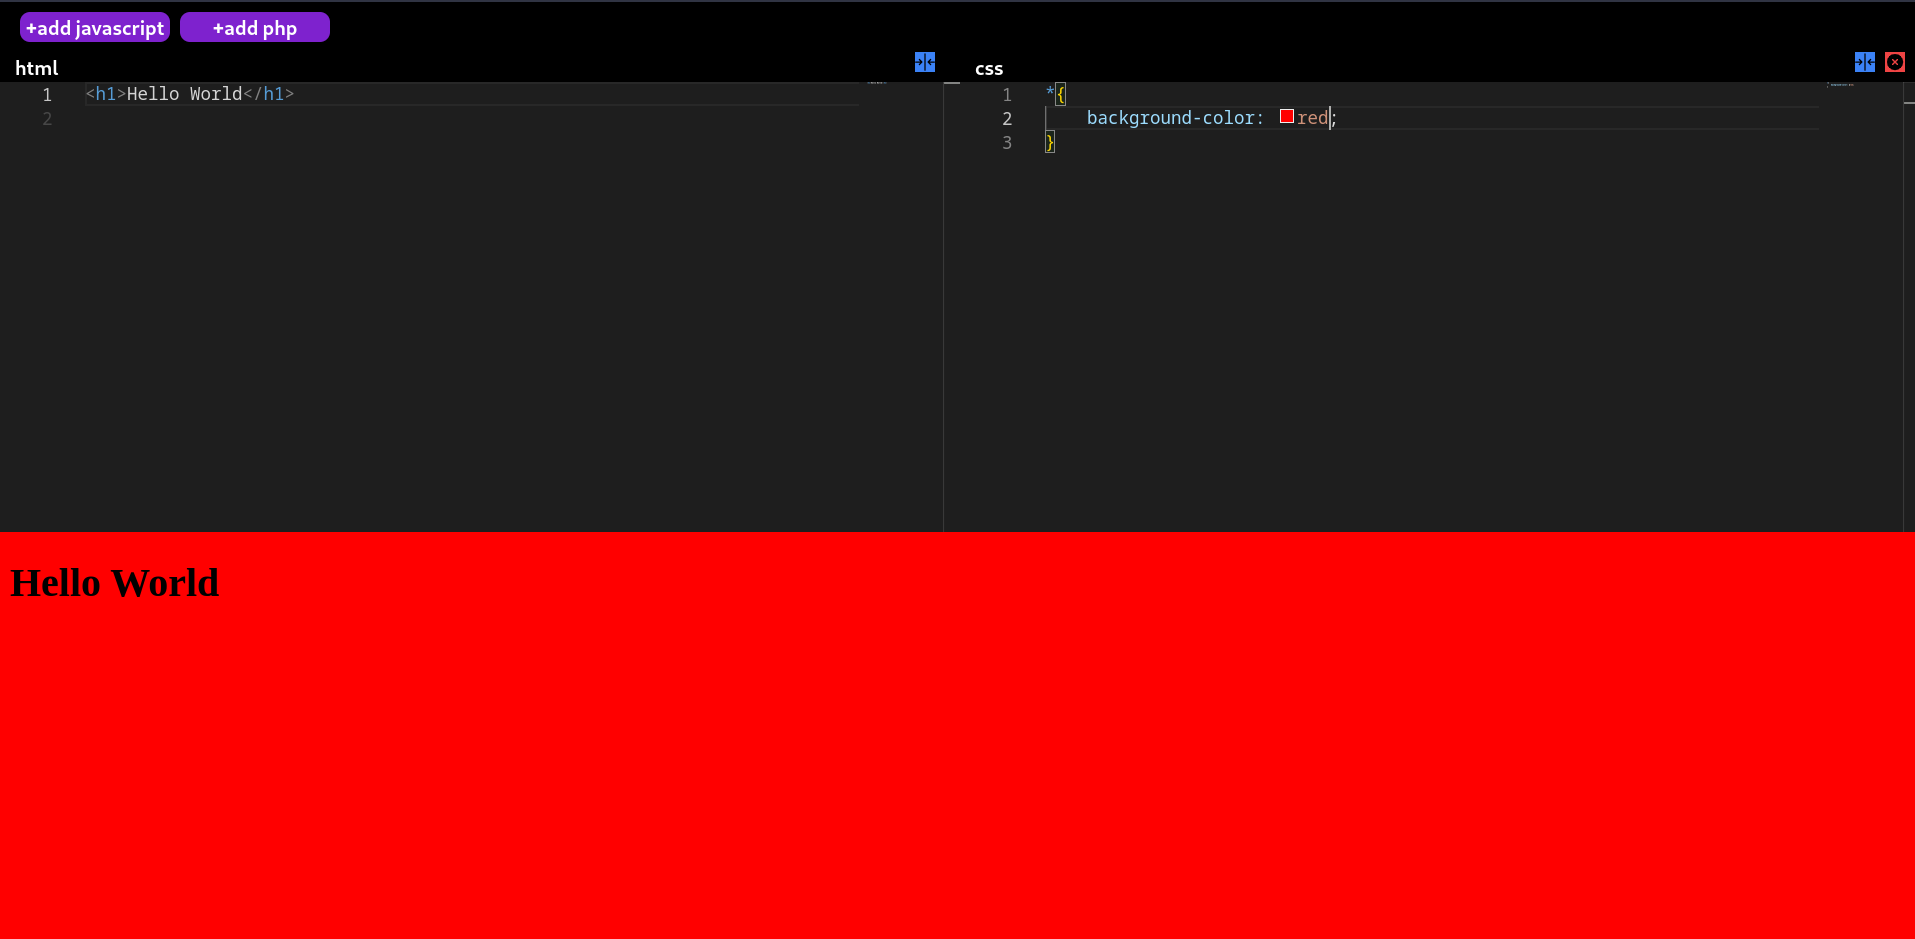
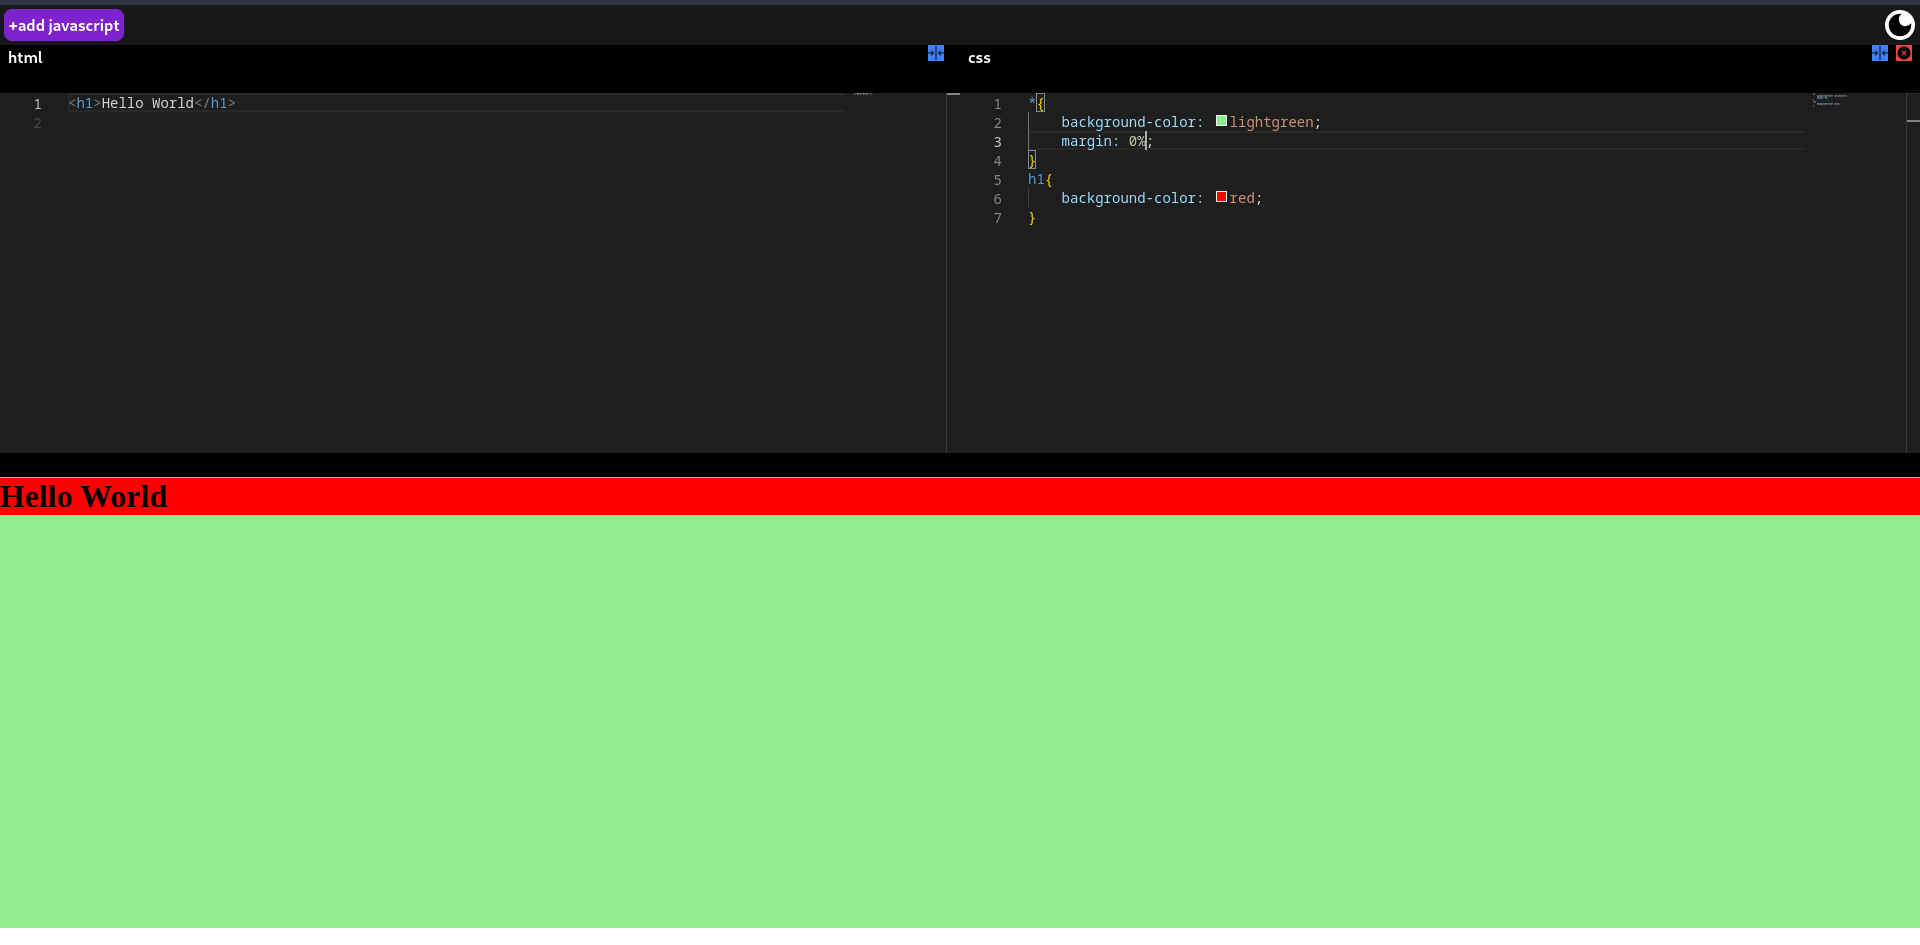
try catch for material error

diff --git a/src/App.js b/src/App.js
@@ -7,11 +7,10 @@ function App() {
   const [html, setHtml] = useState("");
   const [css, setCss] = useState("");
   const [js, setJs] = useState("");
-  const [php, setPhp] = useState("");
   const [files, setFiles] = useState(["html", "css"]);
   const [iframeSrc, setIframeSrc] = useState("");
   const [dark,setDark] = useState(true)
-  const options = ["html", "css", "javascript", "php"];
+  const options = ["html", "css", "javascript"];
   const btn =
     "font-bold text-white cursor-pointer mx-1 w-[120px] my-auto py-1 bg-purple-700 rounded-lg text-center";
   const darkMode = " text-black bg-white absolute right-[5px] top-[5px] h-[30px] w-[30px] rounded-full "
@@ -21,14 +20,14 @@ function App() {
       setIframeSrc(`<html><body>
       <style>${css}</style>
       ${html}
-      <?php 
-      ${php} 
-      ?>
+      
       <script>${js}</script>
-      </body></html>`);
+      </body>
+      
+      </html>`);
     }, 1000);
     return () => clearTimeout(timeout);
-  }, [html, css, js, php]);
+  }, [html, css, js]);
   function handleFileAdd(k) {
     setFiles([...files, k]);
   }
@@ -60,8 +59,6 @@ function App() {
             setCss={setCss}
             js={js}
             setJs={setJs}
-            php={php}
-            setPhp={setPhp}
             setFiles={setFiles}
             files={files}
             dark={dark}
@@ -71,7 +68,7 @@ function App() {
 
       <iframe
         srcDoc={iframeSrc}
-        className="overflow-y-auto h-[329px] w-full bg-white"
+        className="overflow-y-auto h-[450px] w-full bg-white"
         title="HTMLRENDER"
       ></iframe>
     </div>

diff --git a/src/components/TextEditor.js b/src/components/TextEditor.js
@@ -18,9 +18,6 @@ const TextEditor = (props) => {
         case "javascript":
             setParentValue(js);
           break;
-        case "php":
-            setParentValue(php);
-          break;
         default:
           console.log("invalidFile");
       }
@@ -35,9 +32,6 @@ const TextEditor = (props) => {
         break;
       case "javascript":
         setJs(e);
-        break;
-      case "php":
-        setPhp(e);
         break;
       default:
         console.log("invalidFile");
@@ -67,14 +61,22 @@ const TextEditor = (props) => {
           </div>
         </div>
       </div>
-      <Editor
-        height={"360px"}
-        theme={dark?"vs-dark":""}
-        className="w-full"
-        defaultLanguage={file}
-        onChange={(e) => setData(file, e)}
-        value={parentValue}
-      />
+
+      
+        try {
+          (<Editor
+          height={"360px"}
+          theme={dark?"vs-dark":""}
+          className="w-full"
+          defaultLanguage={file}
+          onChange={(e) => setData(file, e)}
+          value={parentValue}
+        />)
+        } catch () {
+         
+        }
+      
+      
     </div>
   );
 };

diff --git a/README.md b/README.md
@@ -4,18 +4,19 @@
 
 ## Description
 
-This web-based code editor is built using React and Tailwind CSS, providing a responsive and visually appealing user interface. The editor facilitates the addition and deletion of HTML, CSS, JavaScript, and PHP files. Each file can be closed or minimized, allowing users to manage their projects efficiently. The application renders HTML, CSS, JavaScript, and PHP on the client side, ensuring a fast and responsive experience. The editor is particularly useful for practicing coding exercises.
+This web-based code editor is built using React and Tailwind CSS, providing a responsive and visually appealing user interface. The editor facilitates the addition and deletion of HTML, CSS, and JavaScript files. Each file can be closed or minimized, allowing users to manage their projects efficiently. The application renders HTML, CSS, and JavaScript on the client side, ensuring a fast and responsive experience. The editor is particularly useful for practicing coding exercises.
 
 ### live deploy - https://webeditor.onrender.com/
 
 ## Features
 
 - Built with React and Tailwind CSS.
-- Add and delete HTML, CSS, JavaScript, and PHP files.
+- Add and delete HTML, CSS, JavaScript files.
 - Close and minimize individual files.
-- Real-time rendering of HTML, CSS, JavaScript, and PHP.
+- Real-time rendering of HTML, CSS, JavaScript.
 - Client-side execution for enhanced speed.
 - Debouncing for improved performance.
+- Dark and Light Mode easy toggle
 
 ## How to Use
 
@@ -29,9 +30,9 @@ This web-based code editor is built using React and Tailwind CSS, providing a re
 ### 2. Adding Files
 
 - Click on the "Add File" button.
-- Choose the file type (HTML, CSS, JavaScript, PHP).
+- Choose the file type (HTML, CSS, JavaScript).
 - Enter a file name.
-- Click "Create" to add the file.
+- Click "+add" to add the file.
 
 ### 3. Managing Files
 
@@ -40,7 +41,7 @@ This web-based code editor is built using React and Tailwind CSS, providing a re
 
 ### 4. Previewing Code
 
-- The editor renders and previews HTML, CSS, JavaScript, and PHP in real-time.
+- The editor renders and previews HTML, CSS, JavaScript in real-time.
 
 ## Debouncing for Improved Performance
 
